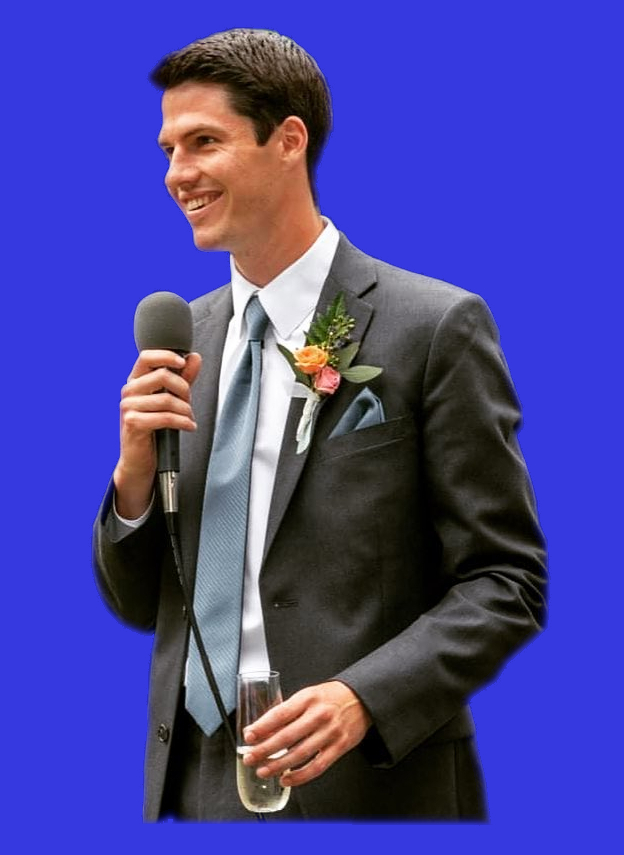
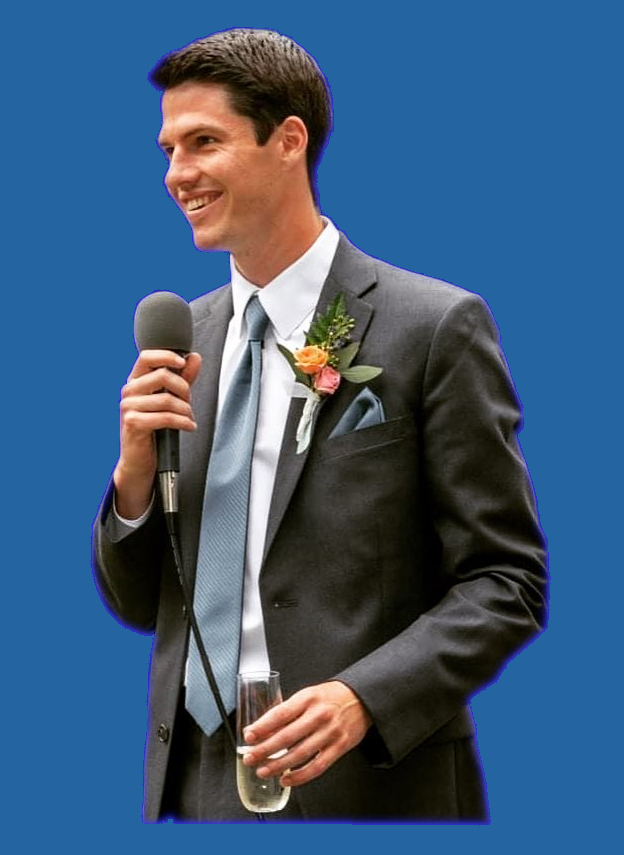
CSS with emma - user her special ability to see colors

diff --git a/styles.css b/styles.css
@@ -1,8 +1,8 @@
 :root {
-  --base-color1: #943f2b;
+  --base-color1: #81b00b;
   --base-color2: #ecf2f1;
   --base-color3: #e08b75;
-  --base-color4: #3639e0;
+  --base-color4: rgb(36, 100, 160);
   --base-color5: #627099;
 }
 
@@ -13,41 +13,26 @@ html {
   padding-bottom: 2vh;
   font-family: Sans-Serif;
   text-align: center;
-  font-size: 11.5px;
+  align-items: center;
+  font-size: 10px;
   background-color: var(--base-color2);
 }
 
-/* @media screen and (min-width: 768px) {
-       //this is a control to place image background
-  .hero {
-    background: linear-gradient(rgb(44, 174, 186, 0.7), rgba(0, 0, 0, 0.7)),
-      url("./images/main.jpeg") center/cover no-repeat;
-  }
-  .hero-banner {
-    padding: 0;
-  }
-  .hero-banner p {
-    max-width: 45rem;
-  }
-} */
-
 body {
   background-color: var(--base-color4);
-  margin: 0;
-  font-size: 1.75rem;
+  font-size: 1.5rem;
   display: flexbox;
-  min-height: 50vh;
+  min-height: 70vh;
   align-items: center;
 }
 
 nav {
   display: inline-block;
   justify-content: space-between;
-  font-size: 2.5rem;
+  font-size: 3rem;
   padding: 1.5rem;
-  text-shadow: 5px 1px 2px var(--base-color1), 0 0 1em var(--base-color3),
+  text-shadow: 5px 1px 2px var(--base-color5), 0 0 1em var(--base-color3),
     0 0 2px var(--base-color2);
-  color: yellow;
 }
 
 h1 {
@@ -80,19 +65,15 @@ img {
   background-color: var(--base-color1);
 }
 
-.project-links {
+#txt {
+  padding: 1vw;
+  justify-content: spread;
   display: flexbox;
   text-align: center;
   color: var(--base-color2);
   font-size: 2rem;
-  max-width: 400px;
-  margin-left: auto;
-  margin-right: auto;
-}
-
-#txt {
-  color: var(--base-color2);
-  font-size: 3rem;
+  text-shadow: 5px 1px 2px var(--base-color5), 0 0 1em var(--base-color3),
+    0 0 2px var(--base-color2);
 }
 
 a {
@@ -100,13 +81,15 @@ a {
 }
 
 a:visited {
-  color: yellow;
+  color: var(--base-color1);
   background-color: transparent;
   text-decoration: none;
 }
 
 a:hover {
-  color: red;
+  color: var(--base-color2);
+  text-shadow: 5px 1px 2px var(--base-color5), 0 0 1em var(--base-color3),
+    0 0 2px var(--base-color2);
   background-color: transparent;
   text-decoration: underline;
 }

diff --git a/projects.html b/projects.html
@@ -17,7 +17,7 @@
     </nav>
   </div>
   <h1 class="heading">Projects</h1>
-  <div class="project-links">
+  <div>
     <br />
     <a href="Track_world/index.html">Track World (JS)</a>
     <br />
@@ -33,7 +33,7 @@
     <br />
     <br />
   </div>
-  <div id="txt"></div>
+  <div class="subheading" id="txt"></div>
   <script>
     function startTime() {
       const today = new Date();

diff --git a/Track_world/trackstyles.css b/Track_world/trackstyles.css
@@ -67,10 +67,8 @@ a:active {
 }
 
 .homeLinks {
+  display: inline-block;
   font-size: 2.5rem;
-  background: transparent;
-  padding: 5px;
-  border-radius: 10px;
-  border-style: groove;
-  border-style: ridge;
+  text-shadow: 5px 1px 2px var(--base-color5), 0 0 1em var(--base-color3),
+    0 0 2px var(--base-color2);
 }
